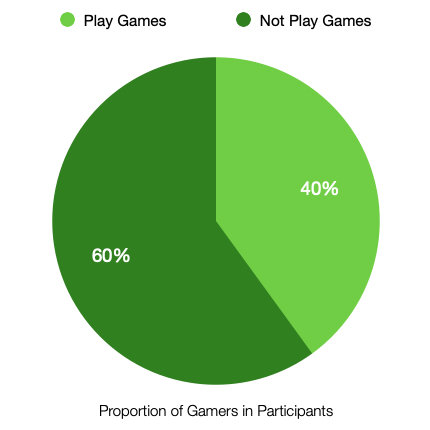
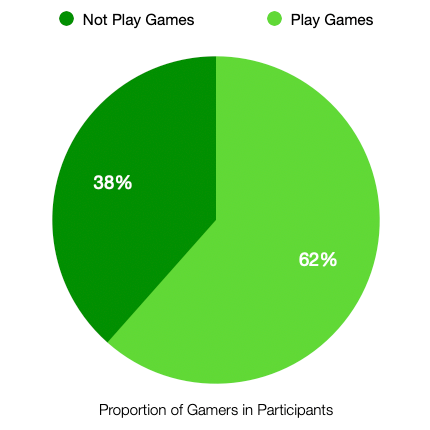
Finalise with statistics

diff --git a/README.md b/README.md
@@ -238,7 +238,7 @@ The use of this shader in this scene does 2 important things. 1 it brings the fi
 
 ## Querying and evaluation (Demographics required)
 ### Participant Demographics
-A total of **13** people participated voluntarily in either Cooperative Evaluation or Interview as part of the User Evaluation with beta version of our game. The gender ratio of our participants is relatively balanced with 6 participants (55%) identified as female and 5 (45%) participants identified as male. The average age of our participants is **20.1** (*Min*: 18, *Max*: 21). We also chose out participants from various cultural backgrounds and with different gaming habits. Participants were asked briefly about their gaming habits and we categorised them roughly into two categories in terms of whether they usually play games or not. As the graph showed below, 40% of them play games while 60% do not play games. The purpose of seeking high variety in our participants is to have a better understanding of our game no matter their gender or whether they usually play games.
+A total of **13** people participated voluntarily in either Cooperative Evaluation or Interview as part of the User Evaluation with beta version of our game. The gender ratio of our participants is relatively balanced with 7 participants (54%) identified as male and 6 (46%) participants identified as female. The average age of our participants is **20.1** (*Min*: 18, *Max*: 21). We also chose out participants from various cultural backgrounds and with different gaming habits. Participants were asked briefly about their gaming habits and we categorised them roughly into two categories in terms of whether they usually play games or not. As the graph showed below, 62% of them play games while 38% do not play games. The purpose of seeking high variety in our participants is to have a better understanding of our game no matter their gender or whether they usually play games.
 
 <p align="center">
   <img src="Gifs/Gender Ratio.png"  width="300" >
